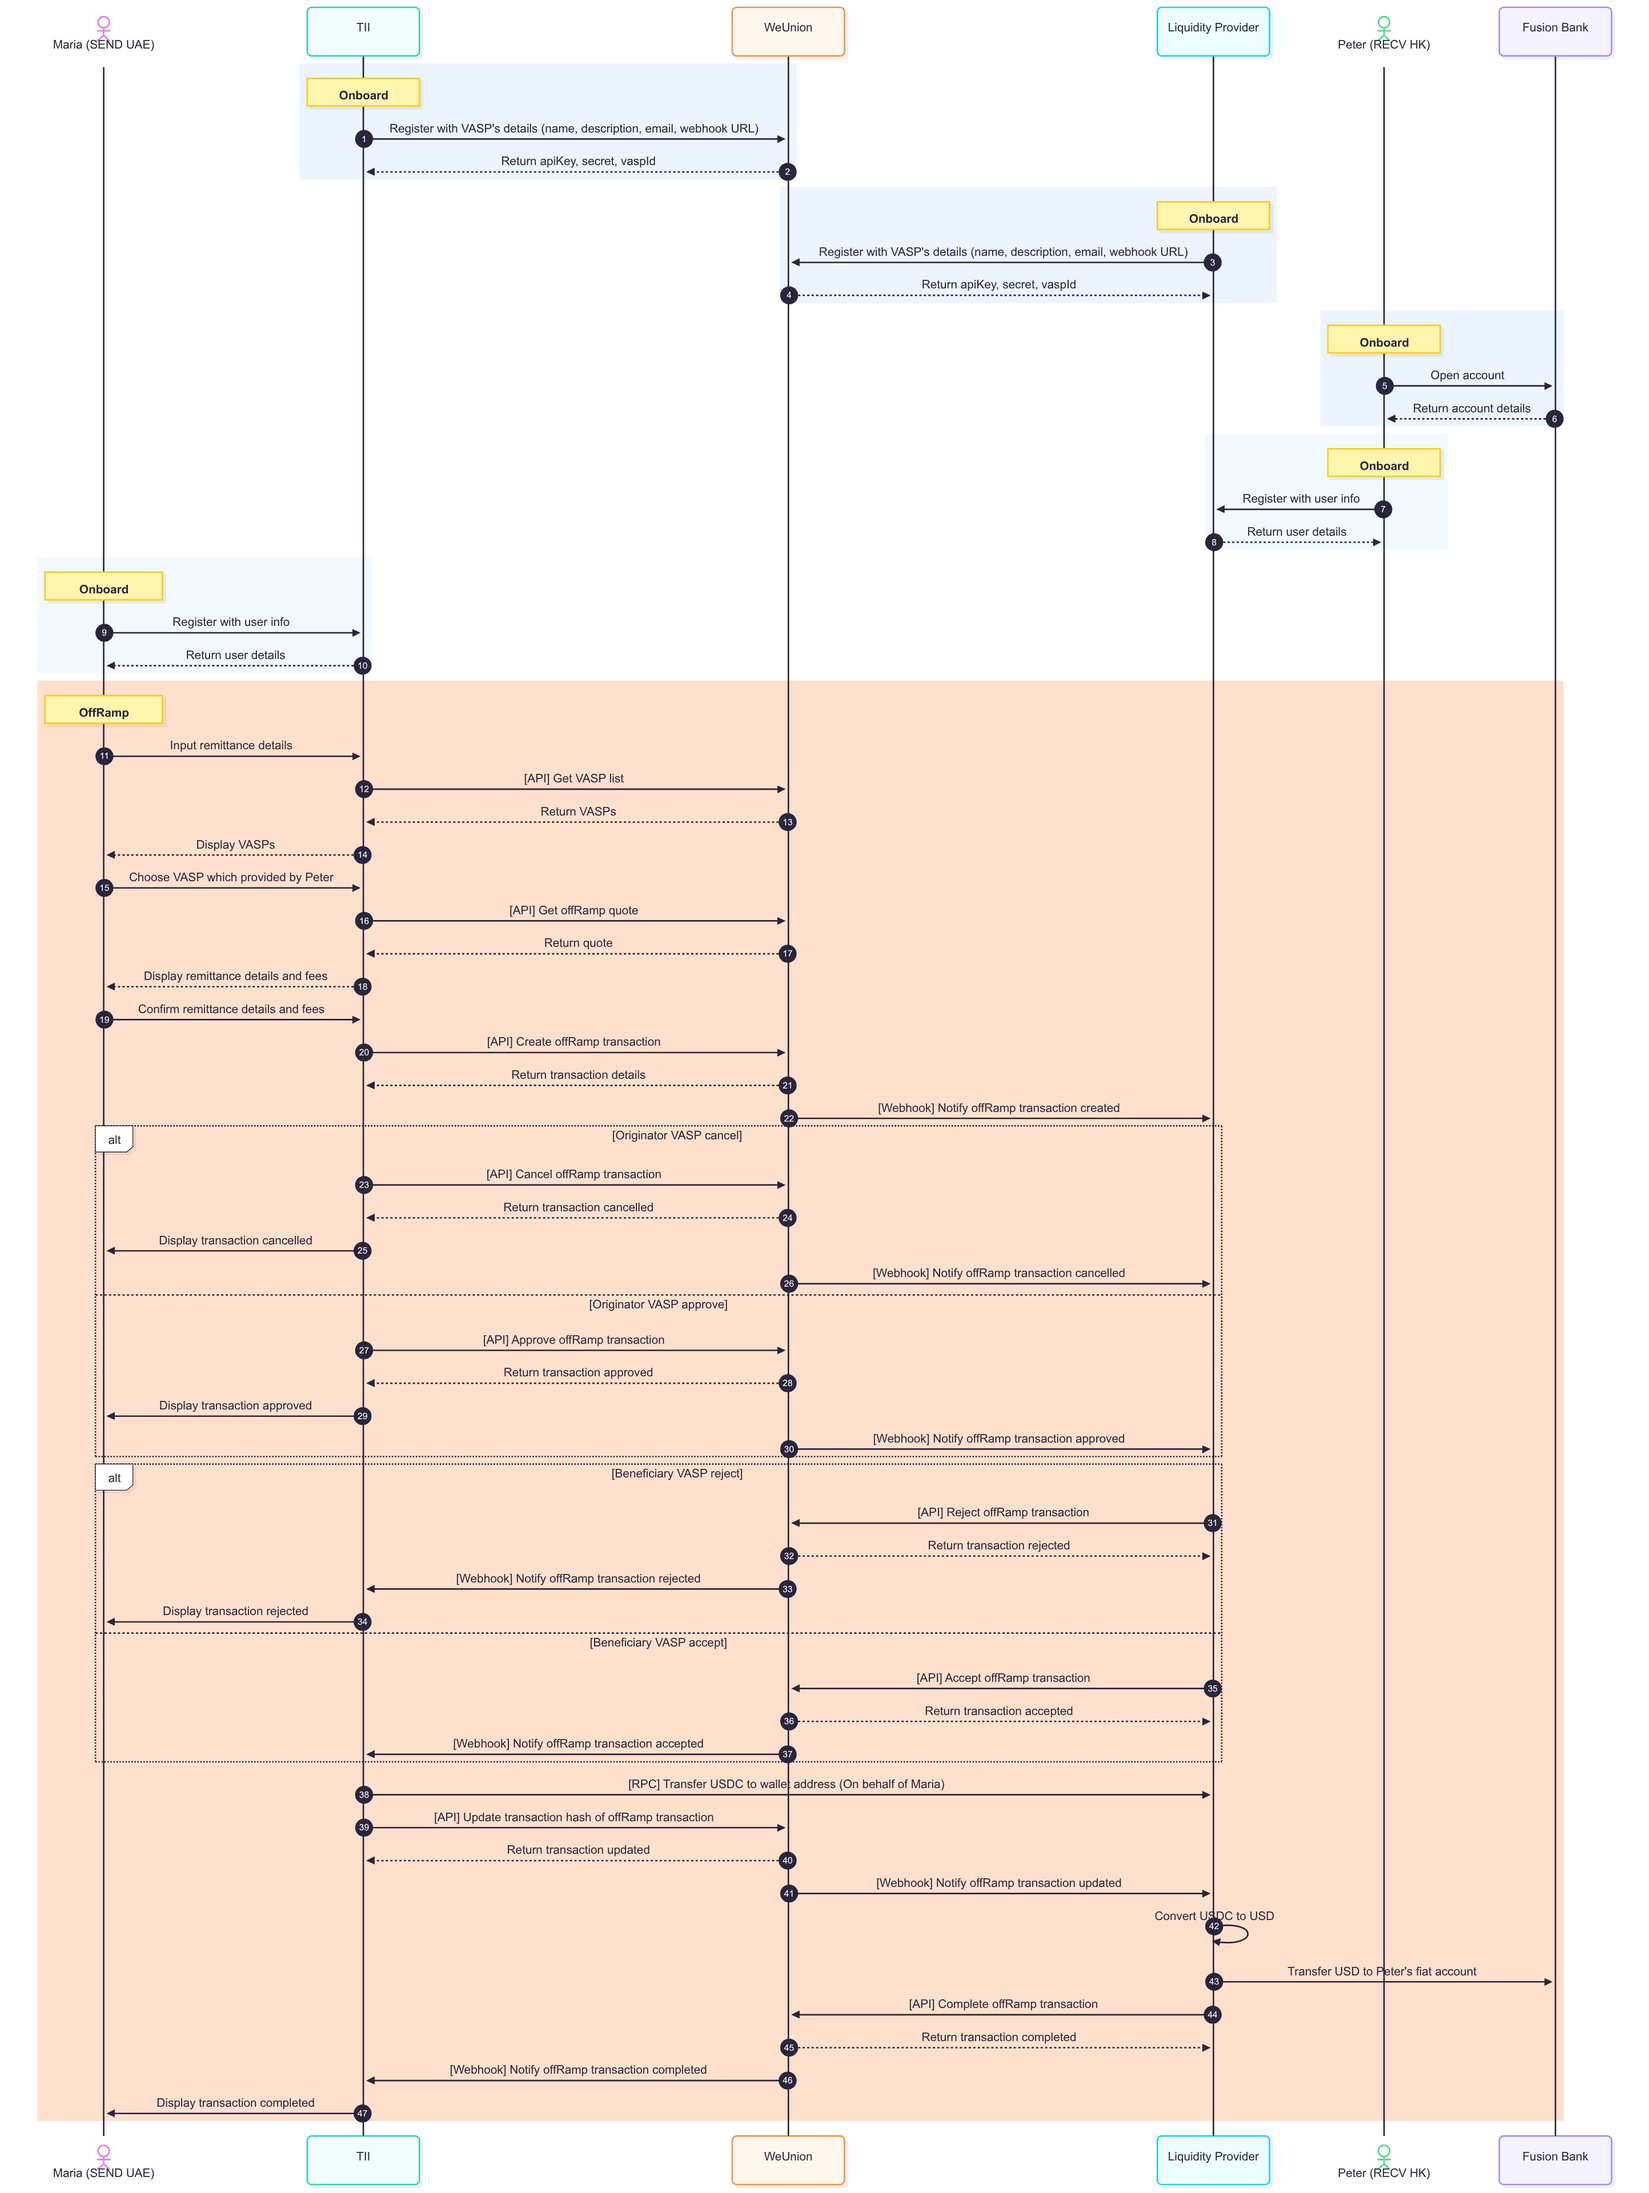
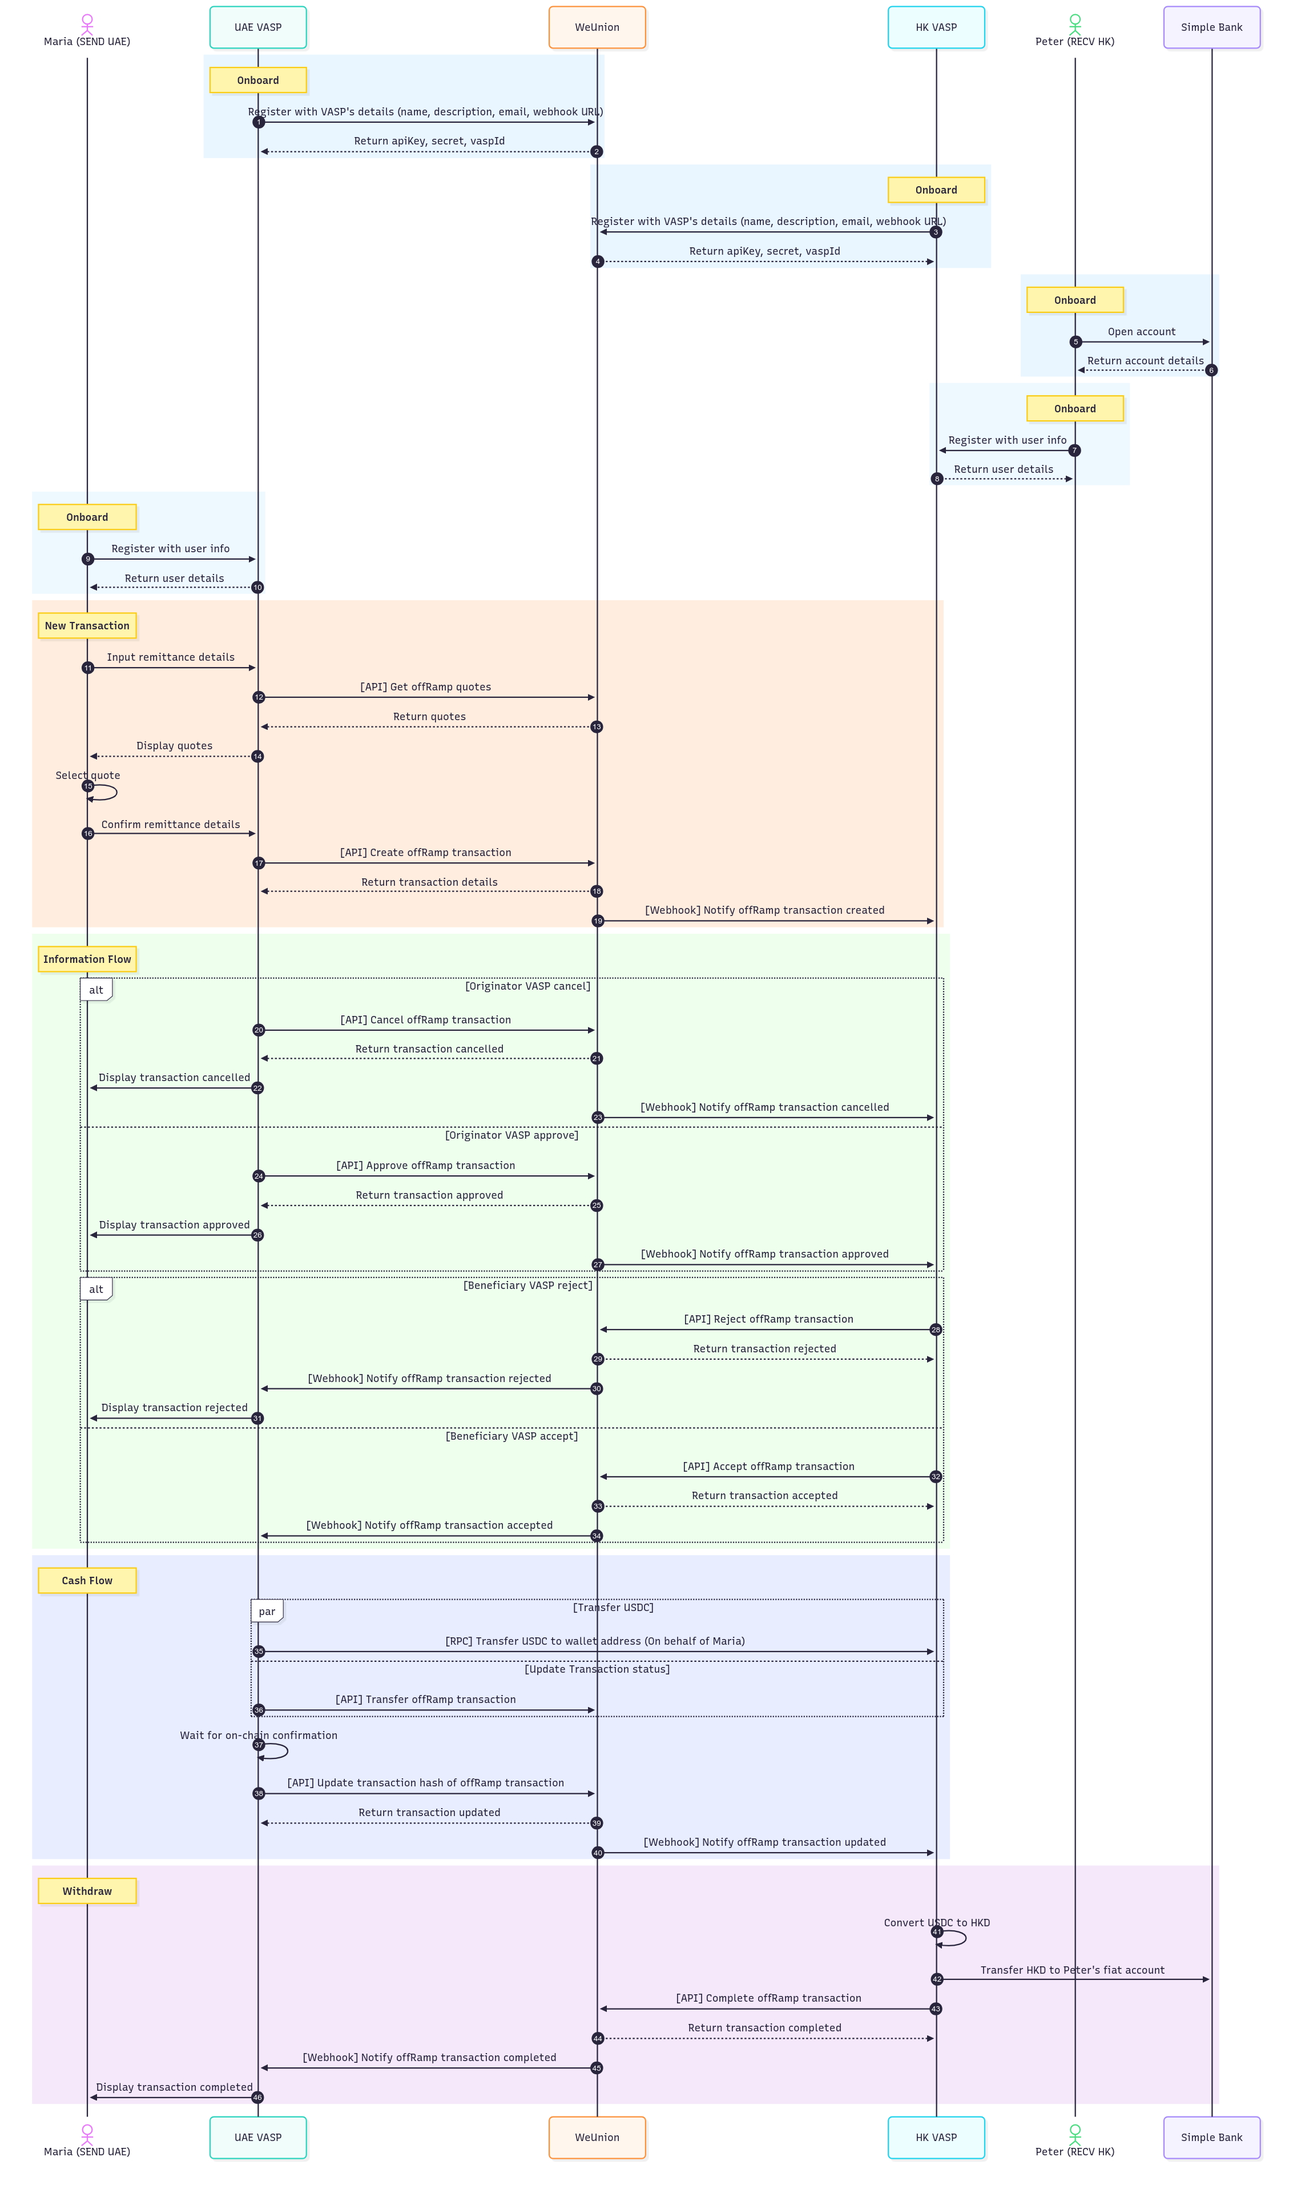
<feat>: update travel rule data, api required and docs

diff --git a/docs/webhook.md b/docs/webhook.md
@@ -9,11 +9,11 @@ To receive asynchronous status updates, VASPs must provide a valid API endpoint 
 
 Each webhook request includes the following fields:
 
-| Field     | Type   | Description                                                                       |
-| --------- | ------ | --------------------------------------------------------------------------------- |
-| `message` | string | Type of notification (e.g., `transactionUpdated`) to identify the update context. |
-| `payload` | object | Notification details.                                                             |
-| `version` | string | Request Structure format version (e.g., `"1.0.0"`).                               |
+| <div style="width: 68px">Field</div> | Type   | Description                                                                       |
+| ------------------------------------ | ------ | --------------------------------------------------------------------------------- |
+| `message`                            | string | Type of notification (e.g., `transactionUpdated`) to identify the update context. |
+| `payload`                            | object | Notification details.                                                             |
+| `version`                            | string | Request Structure format version (e.g., `"1.0.0"`).                               |
 
 #### Sample Request
 

diff --git a/docs/overview.md b/docs/overview.md
@@ -36,10 +36,14 @@ Outlines the lifecycle of a transaction between the **Originator VASP** and the 
    - Status: `REJECTED`
    - Rejected by **Beneficiary VASP**
 
-6. **Update Transaction Hash**
+6. **Transfer Transaction**
+   - Status: `PENDING TRANSFER`
+   - On-chain transfer initiated by **Originator VASP**
+
+7. **Update Transaction Hash**
    - Status: `TRANSFERRED`
    - Transaction hash submitted by **Originator VASP**
 
-7. **Complete Transaction**
+8. **Complete Transaction**
    - Status: `COMPLETED`
    - Finalized by **Beneficiary VASP**
